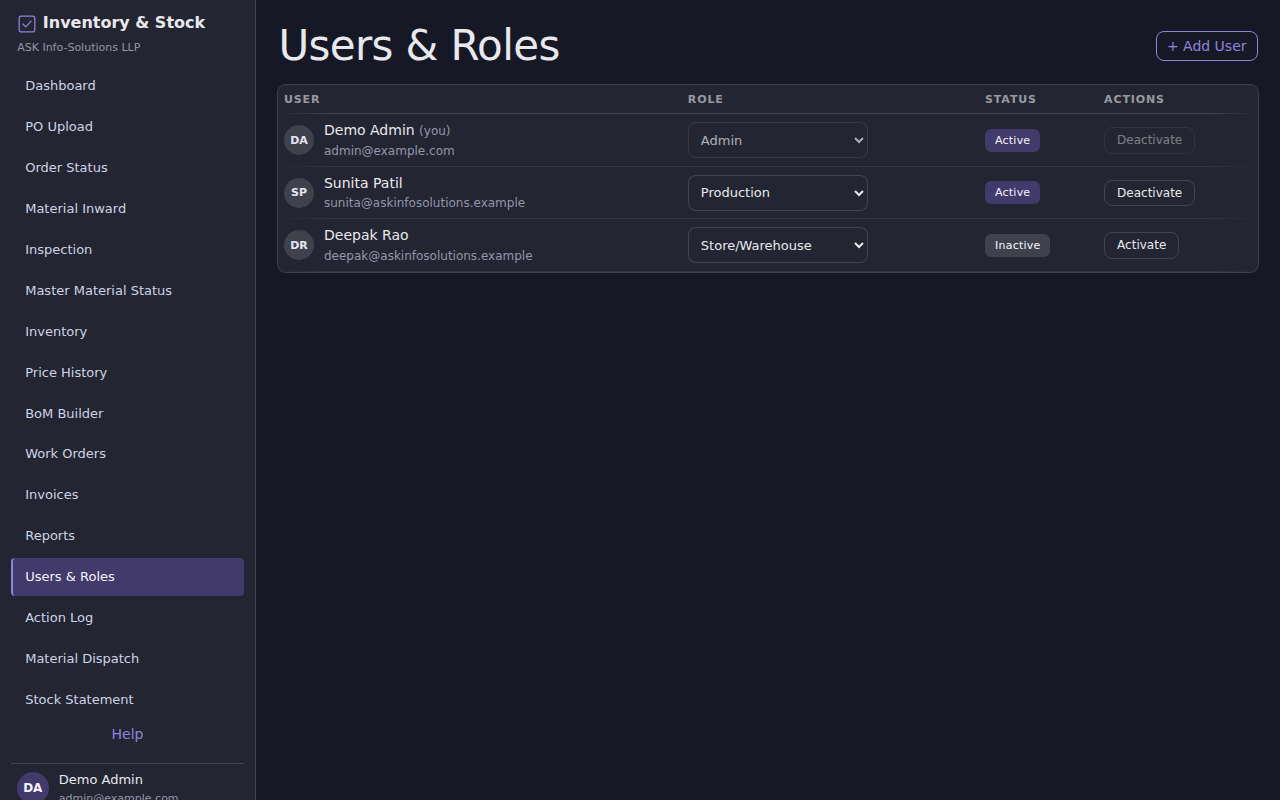
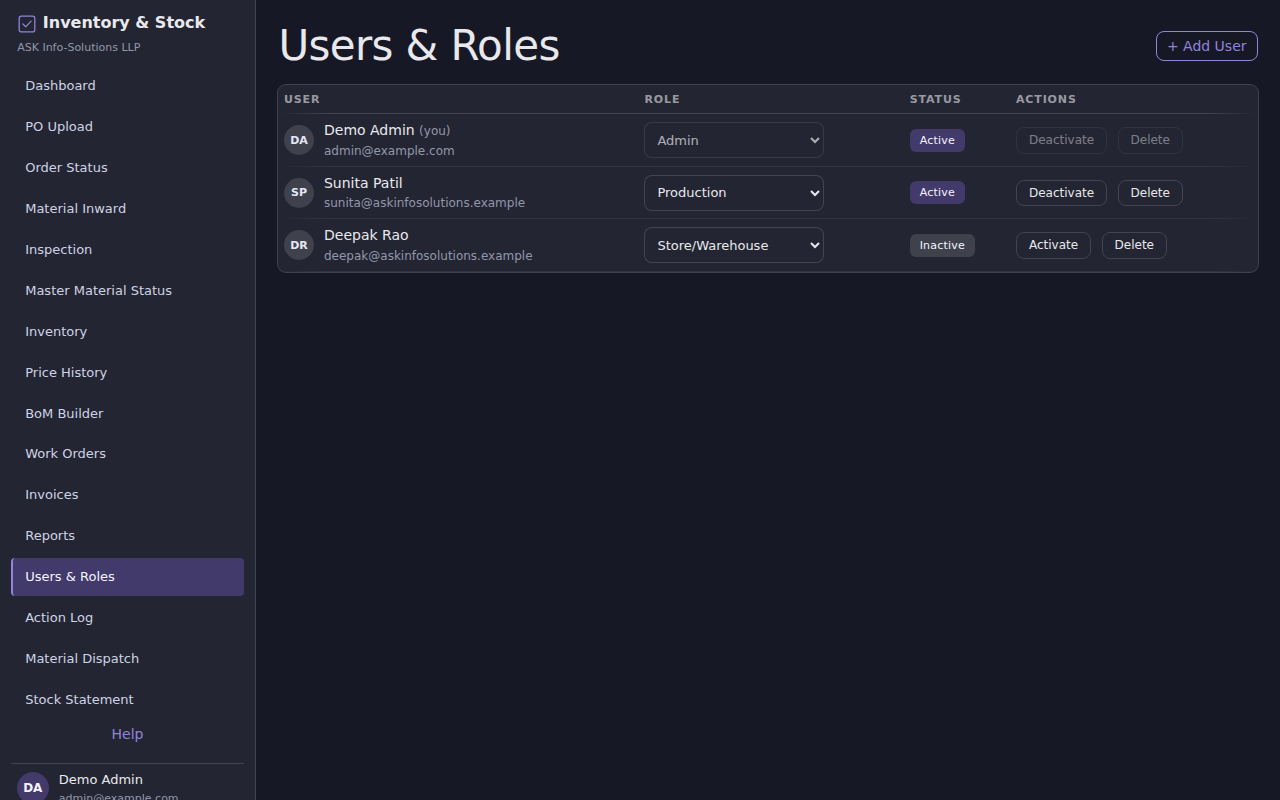
feat: soft-delete a user from Users & Roles
Direct request to remove two specific users. Not a true hard delete —
nearly every table (purchase_orders, invoices, stock_movements,
action_log, etc.) has a created_by/approved_by column that's `not null
references public.users (id)` with no ON DELETE action, so deleting a
user's auth/profile row would either fail outright on the first such FK
(the common case for any real, used account) or require cascading away
real business history. Soft-deletes instead, matching this schema's
existing deleted_at convention for anything with history.

soft_delete_user() sets deleted_at + forces status to 'inactive', reusing
the existing inactive-user sign-in block rather than adding a second
check. admin_list_users() excludes soft-deleted rows. Users & Roles gains
a Delete button (self-delete disabled, confirm dialog) next to
Activate/Deactivate.

Claude-Session: https://claude.ai/code/session_01Nsb5YhbtSeXihTYaEhGuHn

diff --git a/e2e/phase1.spec.js b/e2e/phase1.spec.js
@@ -91,6 +91,68 @@ test.describe('Phase 1 — Users & Roles screen (admin)', () => {
     await expect(selfRow).toContainText('(you)');
     await expect(selfRow.locator('[data-action="role-select"]')).toBeDisabled();
     await expect(selfRow.locator('[data-action="toggle-status"]')).toBeDisabled();
+    await expect(selfRow.locator('[data-action="delete-user"]')).toBeDisabled();
+  });
+
+  test('deleting a user asks for confirmation, calls soft_delete_user, and removes them from the list', async ({ page }) => {
+    let listCallCount = 0;
+    await page.route('**/rest/v1/rpc/admin_list_users**', (route) => {
+      listCallCount += 1;
+      const body =
+        listCallCount === 1
+          ? [
+              { id: 'demo-u1', name: 'Demo Admin', email: 'admin@example.com', role: 'admin', status: 'active' },
+              { id: 'u2', name: 'Jane Store', email: 'jane@example.com', role: 'store', status: 'active' },
+            ]
+          : [{ id: 'demo-u1', name: 'Demo Admin', email: 'admin@example.com', role: 'admin', status: 'active' }];
+      return route.fulfill({ status: 200, contentType: 'application/json', body: JSON.stringify(body) });
+    });
+    let deleteBody = null;
+    await page.route('**/rest/v1/rpc/soft_delete_user**', (route) => {
+      deleteBody = route.request().postDataJSON();
+      return route.fulfill({ status: 200, contentType: 'application/json', body: JSON.stringify({ id: 'u2', deleted_at: '2026-01-01T00:00:00Z' }) });
+    });
+
+    let confirmMessage = '';
+    page.once('dialog', (dialog) => {
+      confirmMessage = dialog.message();
+      dialog.accept();
+    });
+
+    await page.goto('/?demoRole=admin#/users');
+    const row = page.locator('[data-user-row="u2"]');
+    await expect(row).toBeVisible();
+    await row.locator('[data-action="delete-user"]').click();
+
+    expect(confirmMessage).toContain('Jane Store');
+    expect(deleteBody).toEqual({ target_id: 'u2' });
+    await expect(page.locator('[data-user-row="u2"]')).toHaveCount(0);
+  });
+
+  test('cancelling the delete confirmation never calls soft_delete_user', async ({ page }) => {
+    await page.route('**/rest/v1/rpc/admin_list_users**', (route) =>
+      route.fulfill({
+        status: 200,
+        contentType: 'application/json',
+        body: JSON.stringify([
+          { id: 'demo-u1', name: 'Demo Admin', email: 'admin@example.com', role: 'admin', status: 'active' },
+          { id: 'u2', name: 'Jane Store', email: 'jane@example.com', role: 'store', status: 'active' },
+        ]),
+      })
+    );
+    let deleteCalled = false;
+    await page.route('**/rest/v1/rpc/soft_delete_user**', (route) => {
+      deleteCalled = true;
+      route.fulfill({ status: 200, contentType: 'application/json', body: '{}' });
+    });
+
+    page.once('dialog', (dialog) => dialog.dismiss());
+
+    await page.goto('/?demoRole=admin#/users');
+    await page.locator('[data-user-row="u2"] [data-action="delete-user"]').click();
+
+    await expect(page.locator('[data-user-row="u2"]')).toBeVisible();
+    expect(deleteCalled).toBe(false);
   });
 
   test('the Add User dialog validates before calling the invite function', async ({ page }) => {

diff --git a/src/screens/users.js b/src/screens/users.js
@@ -8,7 +8,7 @@ import { escapeHtml, initials } from '../components.js';
 import { createStore } from '../state.js';
 import { canViewModule } from '../navPermissions.js';
 import { ROLES } from '../roles.js';
-import { fetchAdminUsers, setUserRole, setUserStatus } from '../admin.js';
+import { fetchAdminUsers, setUserRole, setUserStatus, deleteUser } from '../admin.js';
 import { open as openAddUserDialog } from '../dialogs/addUserDialog.js';
 
 export async function render(container) {
@@ -91,9 +91,12 @@ function renderRow(u, viewer) {
         </select>
       </td>
       <td><span class="tag ${u.status === 'active' ? 'tag-accent' : 'tag-neutral'}">${u.status === 'active' ? 'Active' : 'Inactive'}</span></td>
-      <td>
+      <td style="white-space:nowrap">
         <button type="button" class="btn btn-secondary" data-action="toggle-status" data-user-id="${escapeHtml(u.id)}" style="padding:5px 12px;font-size:12px" ${isSelf ? 'disabled title="You cannot change your own status."' : ''}>
           ${u.status === 'active' ? 'Deactivate' : 'Activate'}
+        </button>
+        <button type="button" class="btn btn-secondary" data-action="delete-user" data-user-id="${escapeHtml(u.id)}" data-user-name="${escapeHtml(u.name)}" style="padding:5px 12px;font-size:12px;margin-left:6px" ${isSelf ? 'disabled title="You cannot delete your own account."' : ''}>
+          Delete
         </button>
       </td>
     </tr>`;
@@ -133,6 +136,21 @@ function wireEvents(container, store, viewer, load) {
         await load();
       } catch (err) {
         window.alert(err.message || 'Could not update status.');
+        await load();
+      }
+    });
+  });
+
+  container.querySelectorAll('[data-action="delete-user"]').forEach((btn) => {
+    btn.addEventListener('click', async () => {
+      const targetId = btn.dataset.userId;
+      const targetName = btn.dataset.userName;
+      if (!window.confirm(`Delete ${targetName}? They will no longer be able to sign in or appear here, but their existing records (invoices, purchase orders, Action Log entries, etc.) stay unchanged.`)) return;
+      try {
+        await deleteUser(targetId);
+        await load();
+      } catch (err) {
+        window.alert(err.message || 'Could not delete this user.');
         await load();
       }
     });

diff --git a/src/screens/help.js b/src/screens/help.js
@@ -571,7 +571,7 @@ function renderUsersRoles() {
     'Users & Roles',
     `
     <p style="font-size:14px;color:var(--color-neutral-300);margin-bottom:10px">Admin-only: manage every user account and their role.</p>
-    ${img('22-users-roles.png', 'The Users & Roles table with Role dropdowns, Status tags, and Deactivate/Activate buttons per row')}
+    ${img('22-users-roles.png', 'The Users & Roles table with Role dropdowns, Status tags, and Deactivate/Activate/Delete buttons per row')}
 
     ${h3('Inviting a new user')}
     ${ol([
@@ -587,7 +587,14 @@ function renderUsersRoles() {
       'Click the <strong>Role</strong> dropdown next to a user and pick a new one to change it immediately.',
       'Click <strong>Deactivate</strong> to block someone from signing in; click <strong>Activate</strong> to let them back in.',
     ])}
-    ${note('You can\'t change your own role or your own status here — that\'s intentional, so nobody can accidentally lock themselves out. Ask another admin if you need your own account changed.')}
+    ${note('You can\'t change your own role, status, or delete your own account here — that\'s intentional, so nobody can accidentally lock themselves out. Ask another admin if you need your own account changed.')}
+
+    ${h3('Deleting a user')}
+    ${ol([
+      'Click <strong>Delete</strong> next to a user and confirm.',
+      'They immediately stop being able to sign in and disappear from this list.',
+    ])}
+    ${note('This doesn\'t touch anything they ever did — every purchase order, invoice, Action Log entry, and every other record they created stays exactly as it was, still showing their name. Deleting only removes the account itself, and there\'s no "undo" button in the app for it — since their email stays reserved by the deleted account, re-inviting them won\'t work either. If it was a mistake, it has to be reversed directly on the database by whoever administers the Supabase project.')}
     `
   );
 }

diff --git a/src/admin.js b/src/admin.js
@@ -76,3 +76,18 @@ export async function setUserStatus(targetId, newStatus, client = supabase) {
   if (error) throw error;
   return data;
 }
+
+/**
+ * Soft-deletes a user (sets deleted_at + status='inactive' server-side —
+ * see soft_delete_user() in supabase/schema.sql). They stop appearing in
+ * fetchAdminUsers and can no longer sign in; every record they ever
+ * created elsewhere is untouched.
+ * @param {string} targetId
+ * @param {any} [client]
+ */
+export async function deleteUser(targetId, client = supabase) {
+  if (!client) throw new Error('Supabase is not configured.');
+  const { data, error } = await client.rpc('soft_delete_user', { target_id: targetId });
+  if (error) throw error;
+  return data;
+}

diff --git a/CHANGELOG.md b/CHANGELOG.md
@@ -1525,3 +1525,60 @@ print view. This changes `supabase/schema.sql` again, so it needs the
 migration applied manually to any live Supabase project before
 `stock_statement_for_range` (or its integration test) will work
 there.
+
+## Delete a user (Users & Roles)
+
+Direct request: remove two specific users from the app. There was no
+delete action at all — only Activate/Deactivate — so this adds one,
+but not as a true hard delete: nearly every table (`purchase_orders`,
+`invoices`, `stock_movements`, `action_log`, and more) has a
+`created_by`/`approved_by`/etc. column that's `not null references
+public.users (id)` with no `on delete` action, so actually deleting a
+user's row via `auth.admin.deleteUser` would either fail outright on
+the first such FK (for any real, used account — Action Log alone logs
+nearly every action anyone takes, so this is the common case, not an
+edge case) or require cascading away real business history to make it
+succeed. Soft-deleted instead, the same convention this schema already
+uses for anything with history (items/vendors/projects/purchase_orders
+all have their own `deleted_at`): the user's own row, and every record
+it's ever attributed to, stays exactly as it was.
+
+- `supabase/schema.sql`: `users` gains `deleted_at timestamptz null`.
+  New `soft_delete_user(target_id)` (`security definer`, admin-only via
+  `is_admin()`, same self-targeting guard as `set_user_role`/
+  `set_user_status` so an admin can't delete their own account and lock
+  everyone out) sets `deleted_at = now()` **and** `status = 'inactive'`
+  — reusing the sign-in block `src/auth.js` already has for inactive
+  users (covered by `e2e/phase0.spec.js`'s existing test) instead of
+  teaching it a second, separate check. Calling it again on an
+  already-deleted user raises "User not found" rather than silently
+  no-op-succeeding. `admin_list_users()` now excludes soft-deleted rows,
+  so a deleted user simply disappears from Users & Roles.
+- `src/admin.js`: `deleteUser(targetId)` wraps the new RPC, same
+  pattern as `setUserRole`/`setUserStatus`.
+- `src/screens/users.js`: each row gains a **Delete** button (disabled
+  for your own row, like Deactivate already was) behind a
+  `window.confirm` naming the user and explaining that their existing
+  records are unaffected — same confirm-before-destructive-action
+  pattern as archiving an invoice/PO or authorizing a dispatch.
+- `scripts/test-rls-users.mjs`: a non-admin cannot call
+  `soft_delete_user`, an admin cannot delete themselves, an admin can
+  delete another user (`deleted_at` and `status` both persist
+  correctly), `admin_list_users` excludes them afterward, and a second
+  delete on the same user errors instead of succeeding again.
+- `e2e/phase1.spec.js`: the self-row test now also checks Delete is
+  disabled; new tests cover confirming a delete (right RPC body, row
+  disappears from the list) and cancelling the confirm (RPC never
+  called, row stays).
+- `src/screens/help.js` and `public/help/screenshots/22-users-roles.png`
+  updated for the new Delete button and behavior, including that
+  there's no in-app undo — recovering a mistaken delete means fixing it
+  directly on the database, since the user's email stays reserved by
+  the deleted account and re-inviting won't work either.
+
+Verified locally: lint, typecheck, 143 unit tests, full e2e suite
+green; production build clean. This changes `supabase/schema.sql`
+again, so it needs the migration applied manually to any live Supabase
+project before `soft_delete_user` (or its integration test) will work
+there — after which the two users named in the original request can
+actually be deleted from the live Admin → Users & Roles screen.
